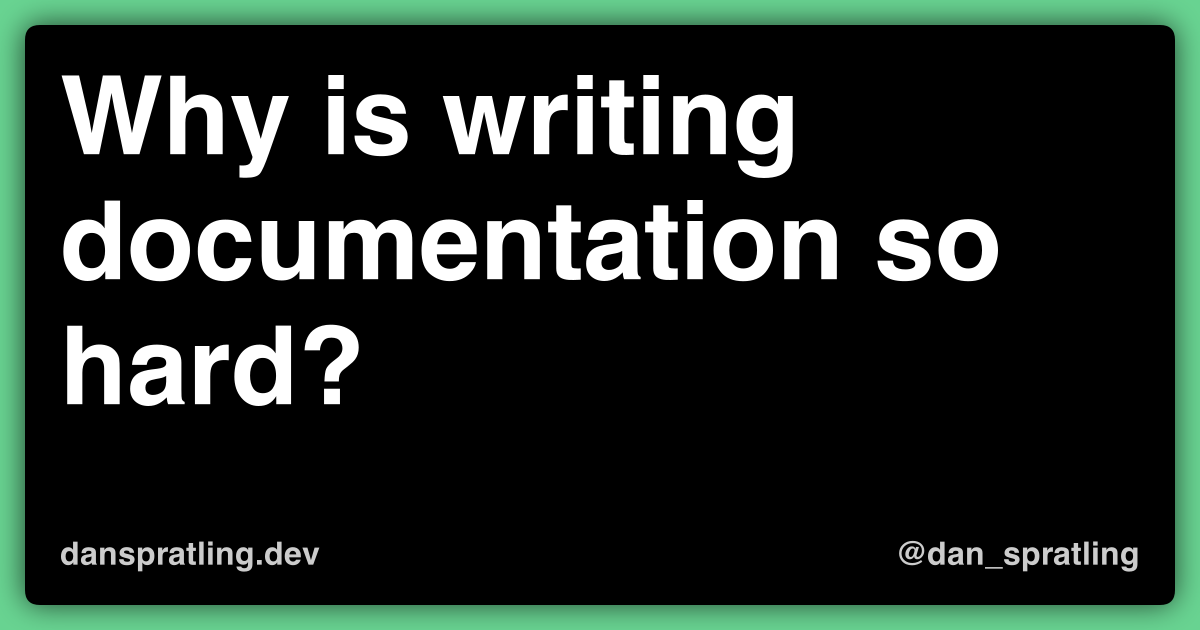
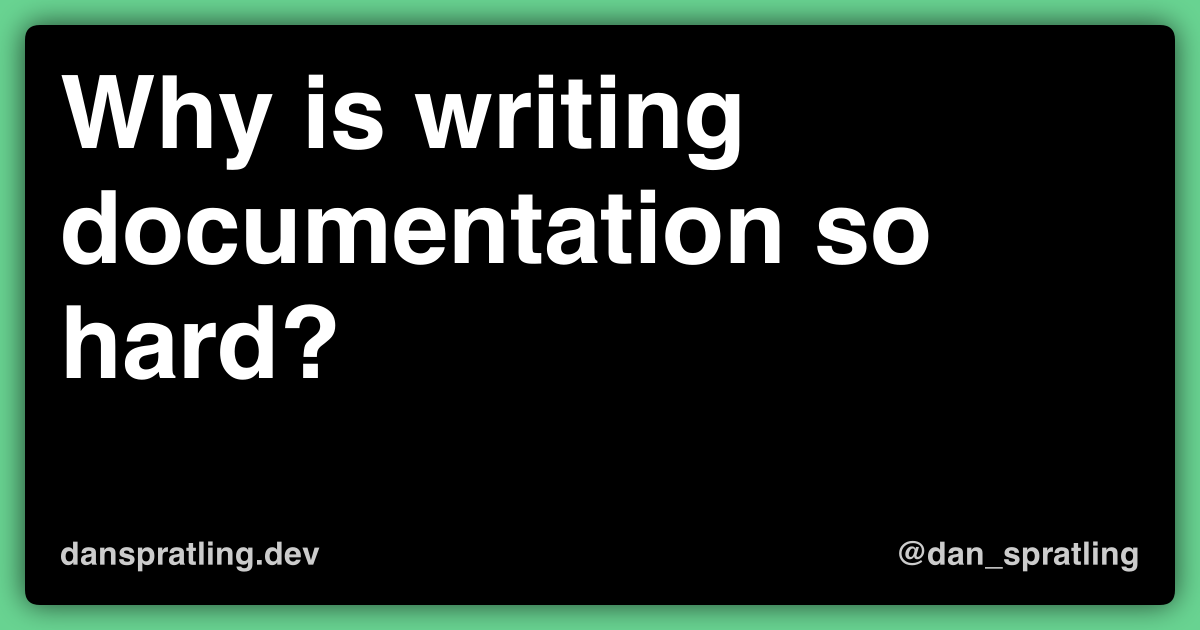
Better sizes social card font

Changed region(s): [[0.0308, 0.3016, 0.8325, 0.4524], [0.0617, 0.1206, 0.6783, 0.3016], [0.0308, 0.4825, 0.3083, 0.6635]]

diff --git a/functions/socialImage.js b/functions/socialImage.js
@@ -28,7 +28,7 @@ function generateImage({ title, slug }) {
   // context.fillRect(25, 25, width, height)
 
   //set the copy style
-  context.font = 'bold 82pt Ubuntu'
+  context.font = 'bold 76pt Ubuntu'
   context.textAlign = 'left'
   context.textBaseline = 'top'
   context.fillStyle = '#fff'
@@ -46,7 +46,7 @@ function generateImage({ title, slug }) {
     if (context.measureText(testLine).width > width) {
       context.fillText(line.trim(), 60, fromTop)
       line = word + ' '
-      fromTop = fromTop + 125
+      fromTop = fromTop + 115
     } else {
       line = line + word + ' '
     }
